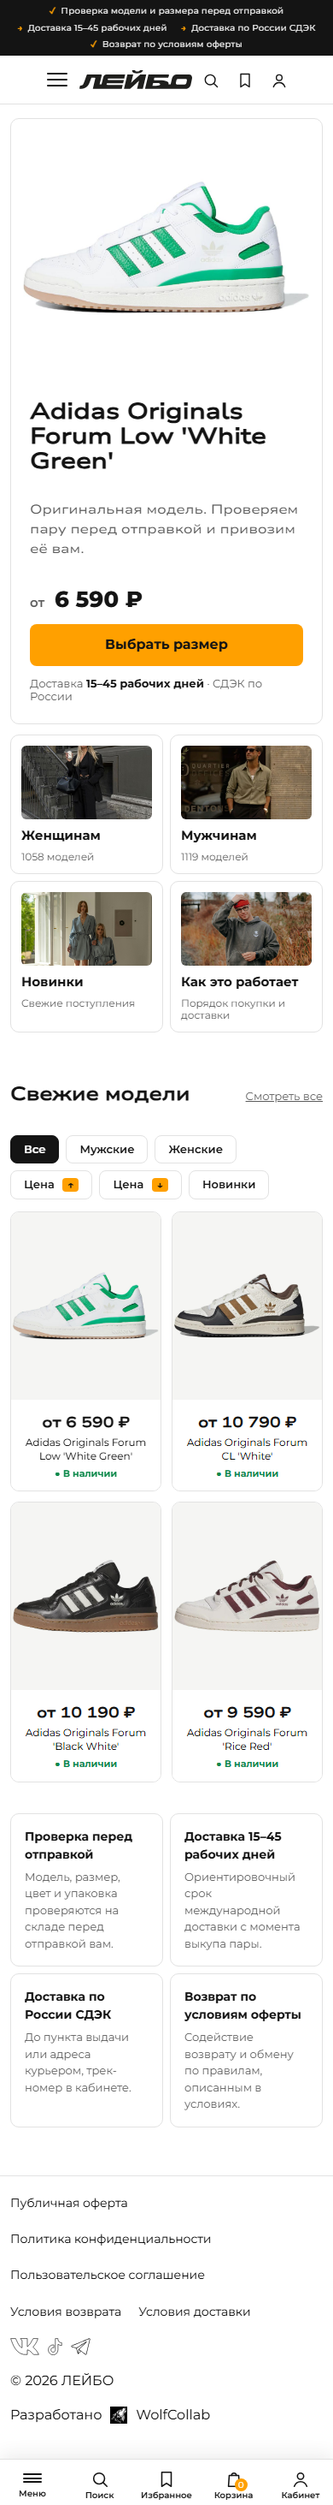
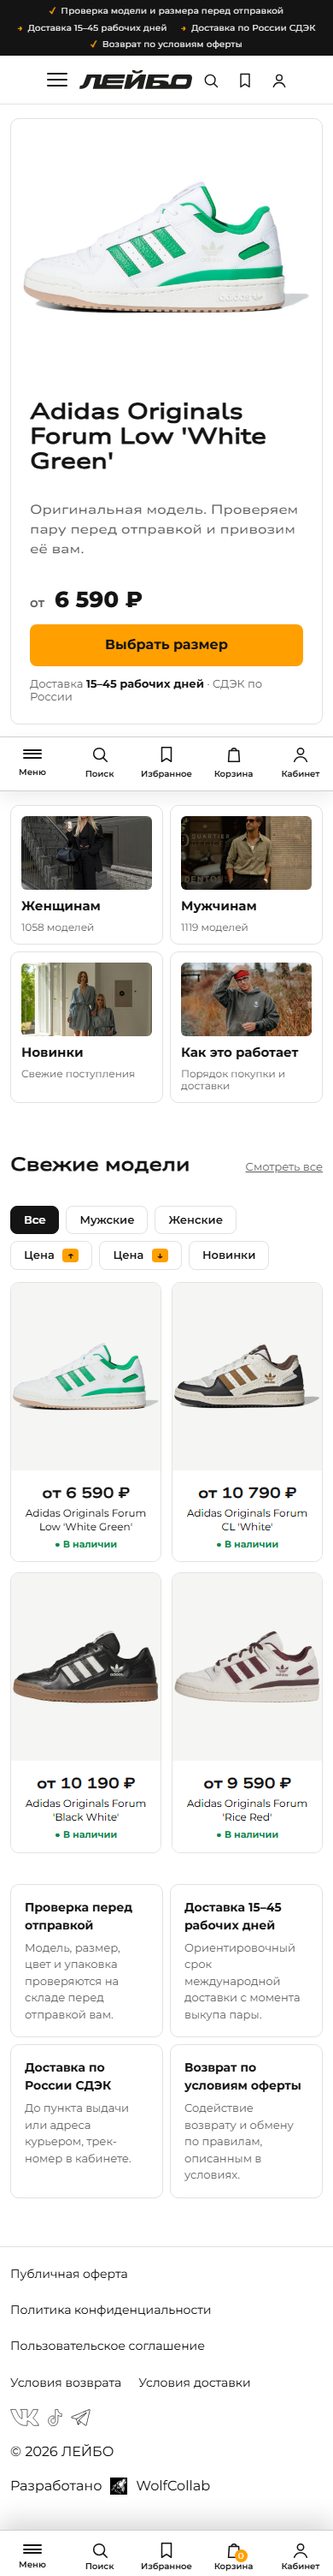
feat(stage3): static navbar divider strip mid-home per approved mockup composition

diff --git a/wordpress/site/wp-content/themes/isart-theme/assets/css/c-components.css b/wordpress/site/wp-content/themes/isart-theme/assets/css/c-components.css
@@ -212,6 +212,26 @@ a { text-decoration: none; }
 .mobile-nav .mobile-nav-item--name { color: var(--c-ink); font-size: 10px; font-weight: 600; }
 .mobile-nav .cart-fragment .mobile-nav-item--name { color: var(--c-accent-ink); }
 
+/* Статичная полоса-разделитель посреди главной — как в утверждённом макете.
+   На мобильной ширине: белая полоса с иконками между hero и плитками.
+   На десктопе скрыта. */
+.mobile-nav-mid { display: none; }
+@media (max-width: 767px) {
+  .mobile-nav-mid {
+    display: flex !important;
+    position: static;
+    background: #fff;
+    border-top: 1px solid #CFCFCF;
+    border-bottom: 1px solid #CFCFCF;
+    box-shadow: 0 8px 20px rgba(0, 0, 0, .07);
+    padding: 9px 8px 11px;
+    margin: 14px 0 16px;
+  }
+  .mobile-nav-mid .mobile-nav-item--icon svg { width: 22px; height: 22px; color: var(--c-ink); display: block; }
+  .mobile-nav-mid .burger-icon span { display: block; width: 22px; height: 2px; background: var(--c-ink); border-radius: 2px; margin: 2.5px 0; }
+  .mobile-nav-mid .mobile-nav-item--name { color: var(--c-ink); font-size: 10px; font-weight: 600; margin-top: 4px; }
+}
+
 /* ---------- Мобильная нижняя навигация ---------- */
 .mobile-nav { background: #fff; border-top: 1px solid var(--c-border); box-shadow: 0 -4px 16px rgba(0,0,0,.05); }
 
